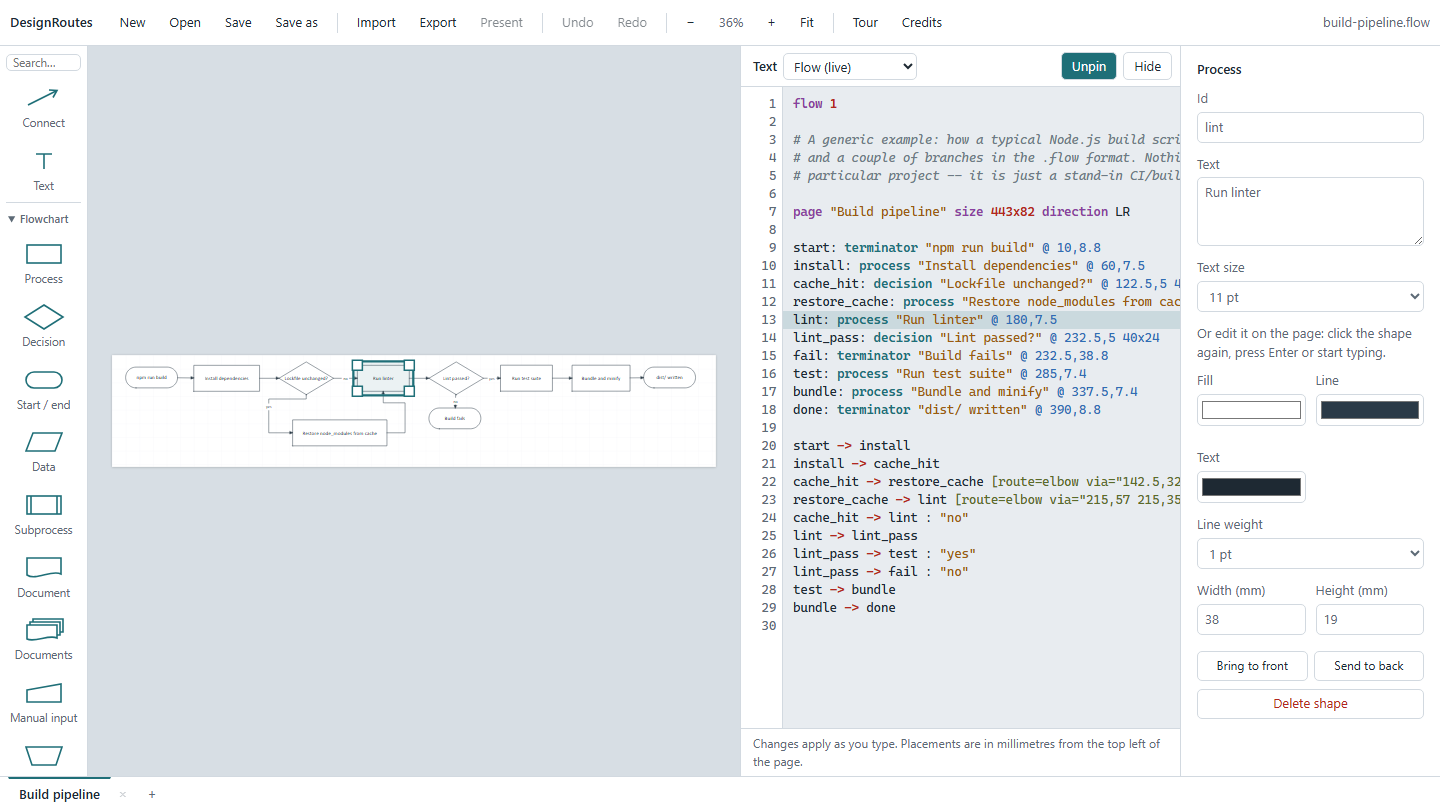
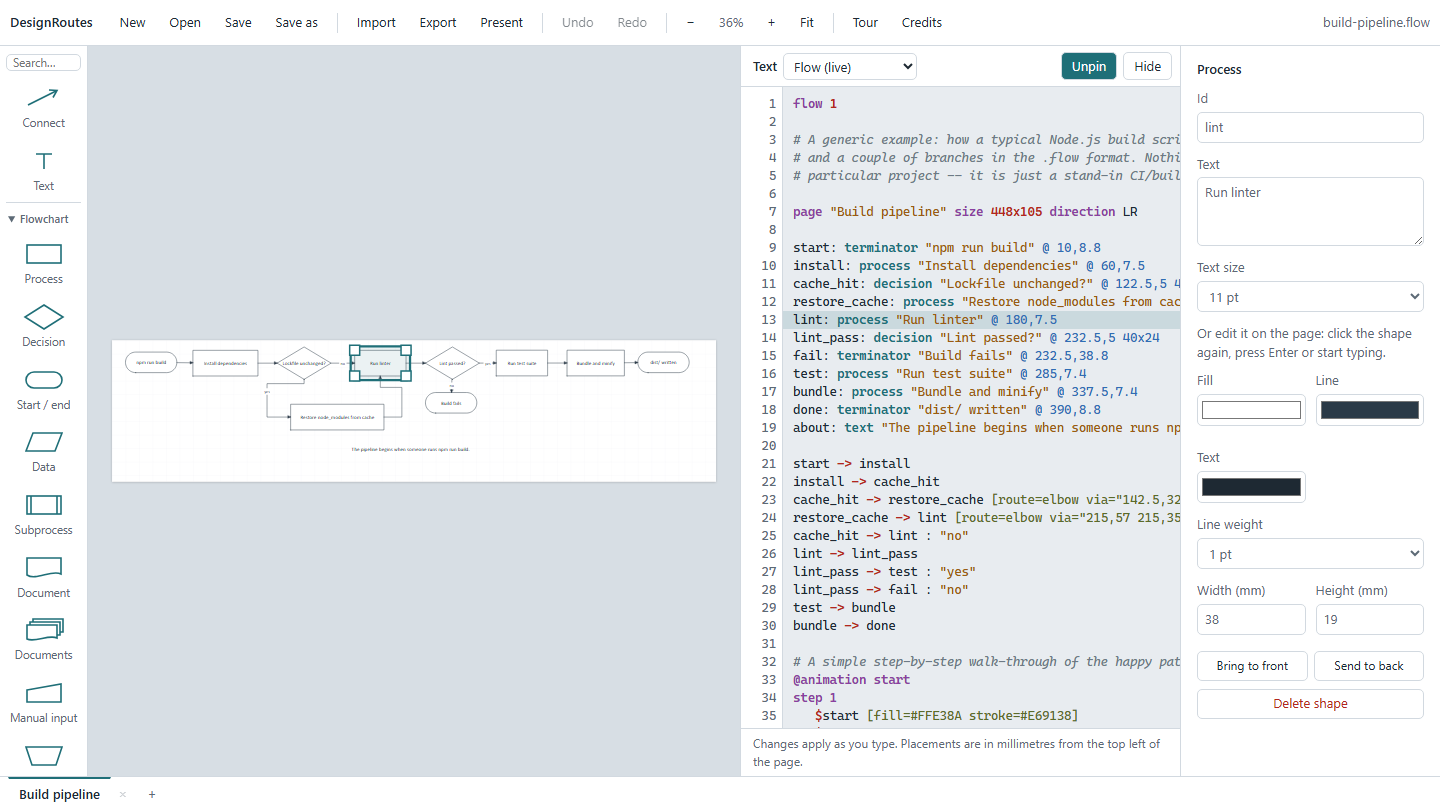
tweak to show animation in editor screen

Changed region(s): [[0.0625, 0.4012, 0.5, 0.6173], [0.5312, 0.5247, 0.8125, 0.8951], [0.6875, 0.2469, 0.7812, 0.2778]]

diff --git a/README.md b/README.md
@@ -417,9 +417,9 @@ look. The drawing itself is never changed: leaving shows it exactly as it was, a
 ## Diagrams
 
 `examples/` holds generic `.flow` diagrams, unrelated to any particular project, showing what the format and the
-shapes look like. `build-pipeline.flow` is a small CI-build process with a decision and a loop.
-`order-flow-animated.flow` is an order going through a flowchart in five steps: open it and press **Present**
-(see [Presenting step by step](#presenting-step-by-step)).
+shapes look like. `build-pipeline.flow` is a small CI-build process with a decision and a loop; press **Present**
+to step through it stage by stage (see [Presenting step by step](#presenting-step-by-step)).
+`order-flow-animated.flow` is an order going through a flowchart in five steps, the same way.
 
 ![The build-pipeline example](examples/build-pipeline.png)
 
